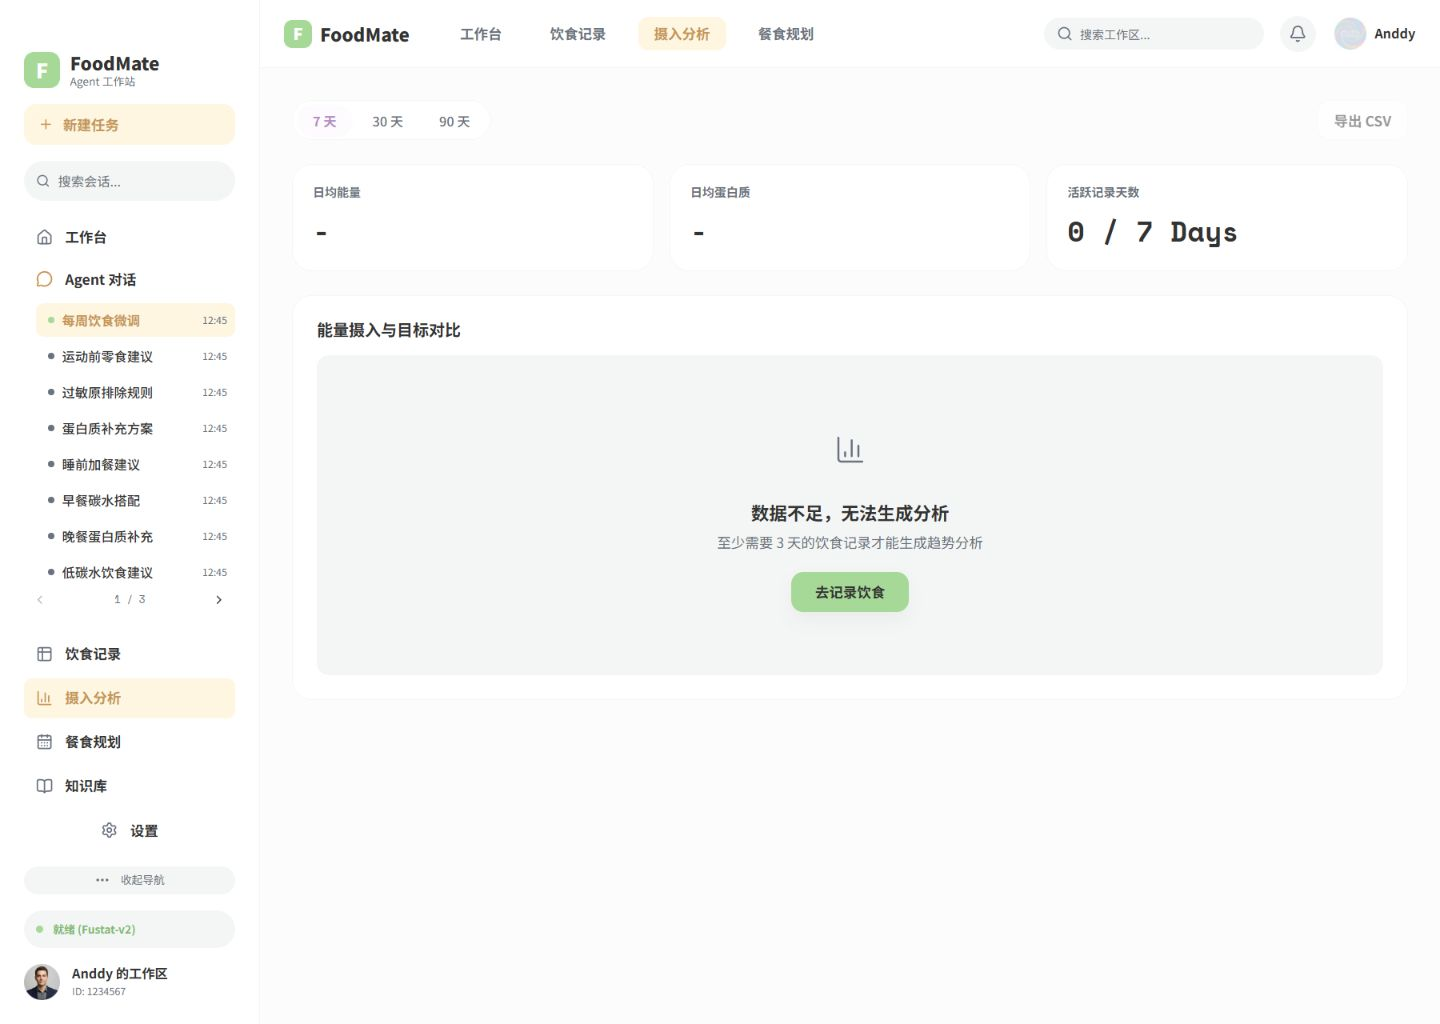
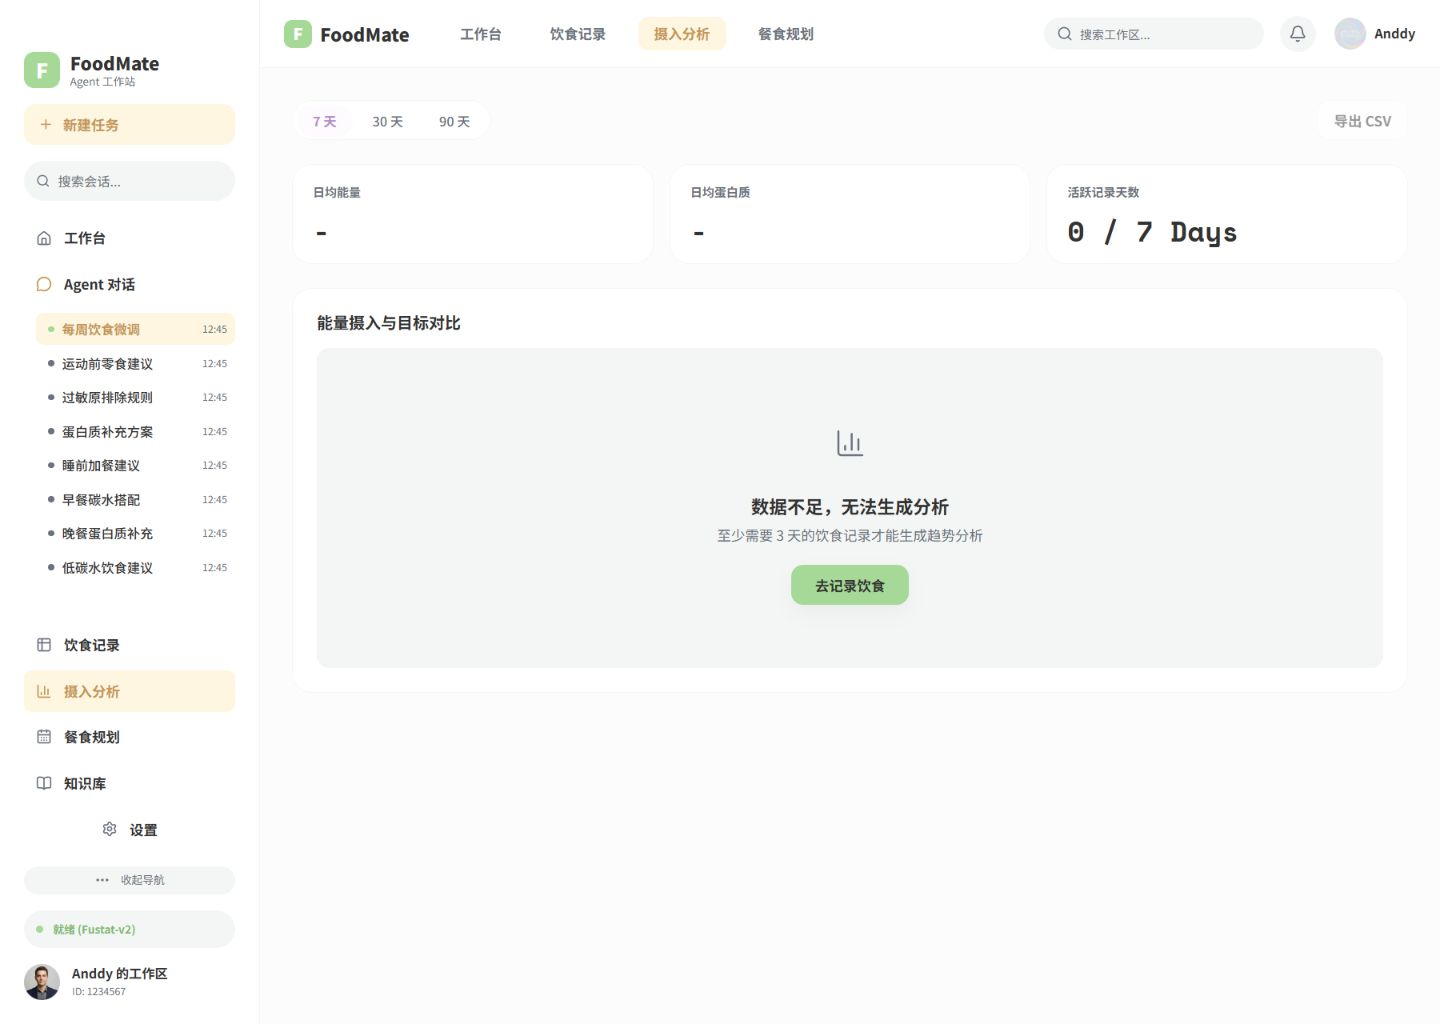
docs(规范): 补充运行时事件收件箱契约注释

diff --git a/foodmate-ui/src/pages/AnalysisPage/AnalysisPage.tsx b/foodmate-ui/src/pages/AnalysisPage/AnalysisPage.tsx
@@ -268,7 +268,10 @@ export function AnalysisPage() {
       sidebarFixture={isFigmaFixture ? { sessions: figmaSidebarSessions } : undefined}
     >
       <div className={styles.page}>
-        <section className={styles.analysisBody} aria-label="摄入分析">
+        <section
+          className={`${styles.analysisBody} ${isFigmaFixture ? styles.figmaAnalysis : ''}`}
+          aria-label="摄入分析"
+        >
           <header
             className={`${styles.filterRow} ${isFigmaFixture ? styles.figmaFilterRow : ''} ${visibleState === 'loading' ? styles.stateFilterRow : ''}`}
           >

diff --git a/foodmate-ui/src/pages/AnalysisPage/AnalysisPage.module.css b/foodmate-ui/src/pages/AnalysisPage/AnalysisPage.module.css
@@ -120,6 +120,11 @@
   height: 107px;
 }
 
+.figmaAnalysis .metrics,
+.figmaAnalysis .metricCard {
+  height: 100px;
+}
+
 .loadingMetrics {
   height: 126px;
 }

diff --git a/foodmate-shared/src/main/java/com/foodmate/shared/runtime/EventInbox.java b/foodmate-shared/src/main/java/com/foodmate/shared/runtime/EventInbox.java
@@ -3,10 +3,17 @@ package com.foodmate.shared.runtime;
 import java.util.HashMap;
 import java.util.Map;
 
+/**
+ * In-memory compatibility guard for ordered runtime events.
+ *
+ * <p>The durable Java inbox performs the same checks against PostgreSQL. This small shared type
+ * keeps the legacy gateway contract deterministic in unit tests and compatibility adapters.
+ */
 public final class EventInbox {
     private final Map<String, String> fingerprints = new HashMap<>();
     private final Map<String, RunEvent> latest = new HashMap<>();
 
+    /** Accepts an event once and rejects conflicting, out-of-order, or gapped events. */
     public synchronized Result accept(RunEvent event) {
         String key = event.runId() + ":" + event.eventId();
         String fingerprint =
@@ -30,6 +37,7 @@ public final class EventInbox {
         return Result.ACCEPTED;
     }
 
+    /** Returns the latest accepted event for a run, or {@code null} when no event was accepted. */
     public synchronized RunEvent latest(String runId) {
         return latest.get(runId);
     }
@@ -49,6 +57,7 @@ public final class EventInbox {
         return new RuntimeException(code, code);
     }
 
+    /** Result of attempting to insert an event into the inbox. */
     public enum Result {
         ACCEPTED,
         DUPLICATE
